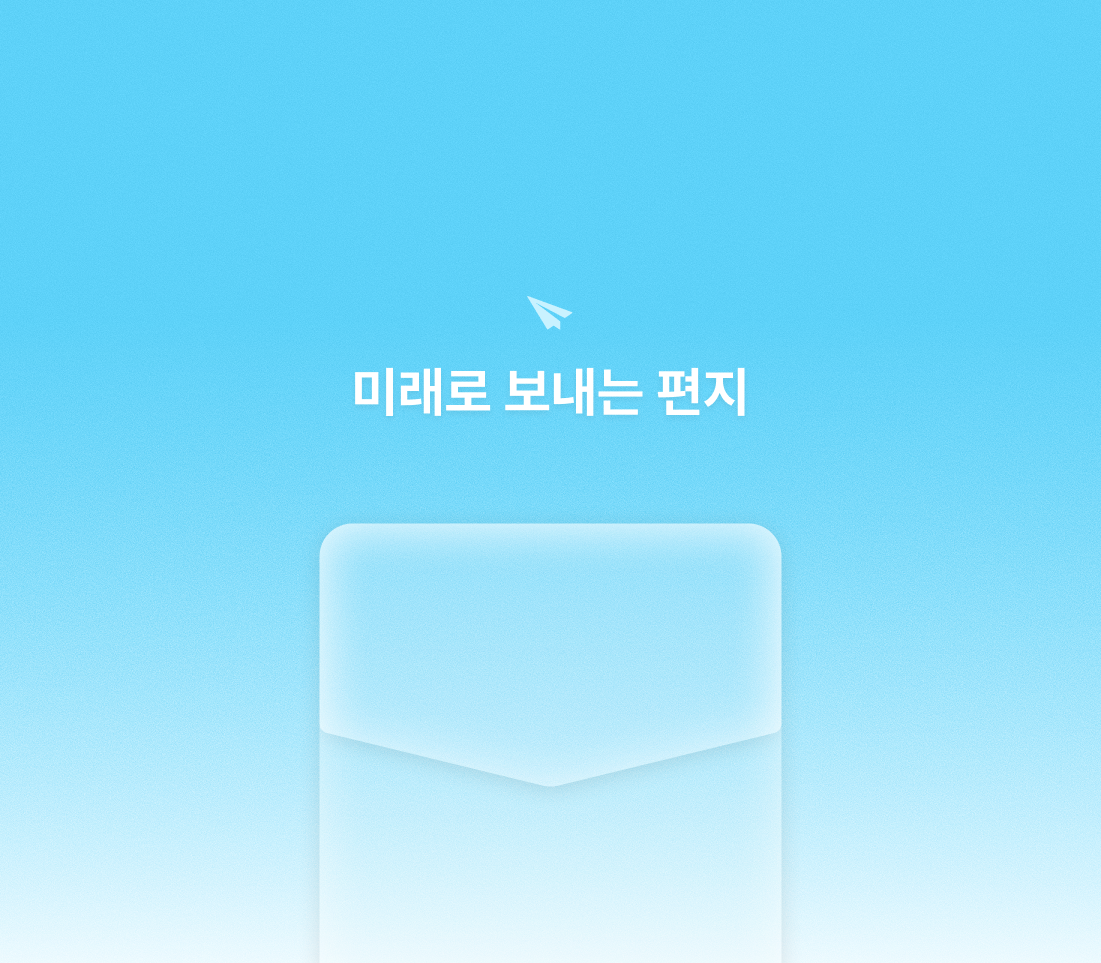
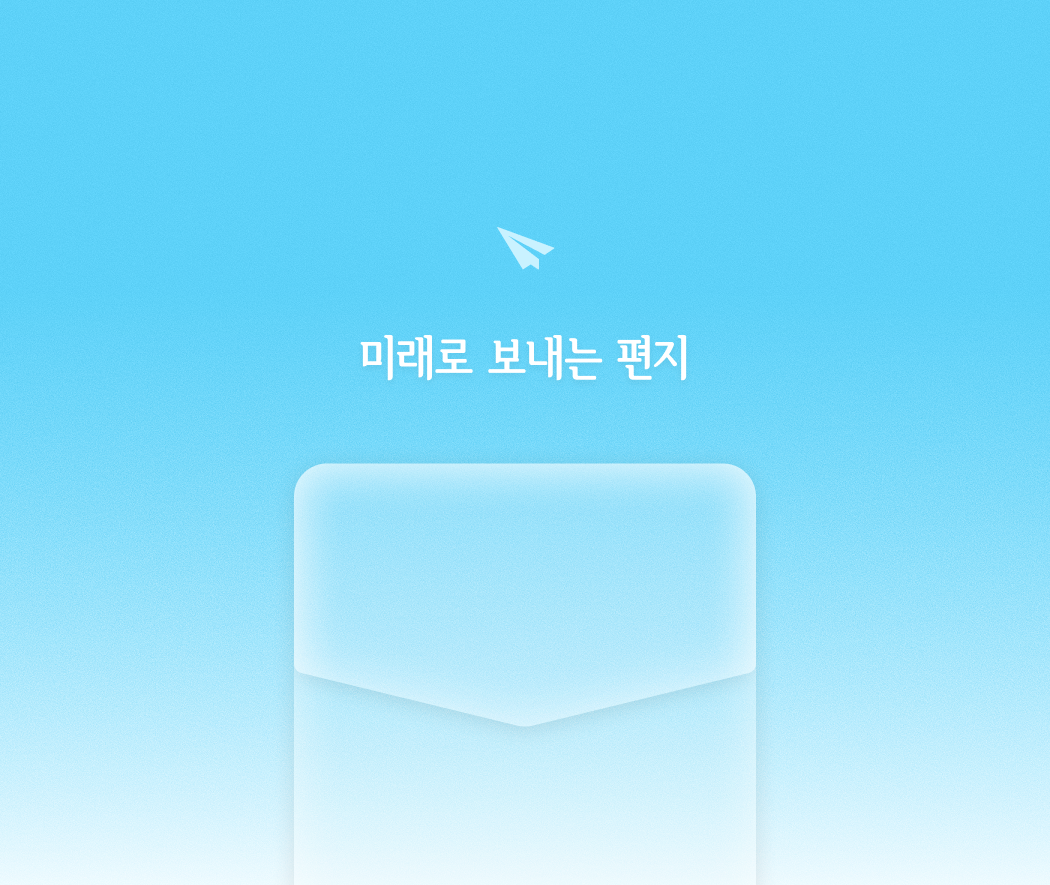
편지 최종본5

diff --git a/src/app/layout.tsx b/src/app/layout.tsx
@@ -3,7 +3,18 @@ import "./globals.css";
 
 export const metadata: Metadata = {
   title: "미래로 보내는 편지",
-  description: "1년 뒤의 나에게 보내는 편지 서비스",
+  description: "1년 뒤의 나에게 소중한 마음을 전하세요.",
+  openGraph: {
+    title: "미래로 보내는 편지",
+    description: "1년 뒤의 나에게 소중한 마음을 전하세요.",
+    images: [
+      {
+        url: "/shareimage.png", // public 폴더에 넣은 파일 이름
+        width: 700,
+        height: 590,
+      },
+    ],
+  },
 };
 
 export default function RootLayout({
